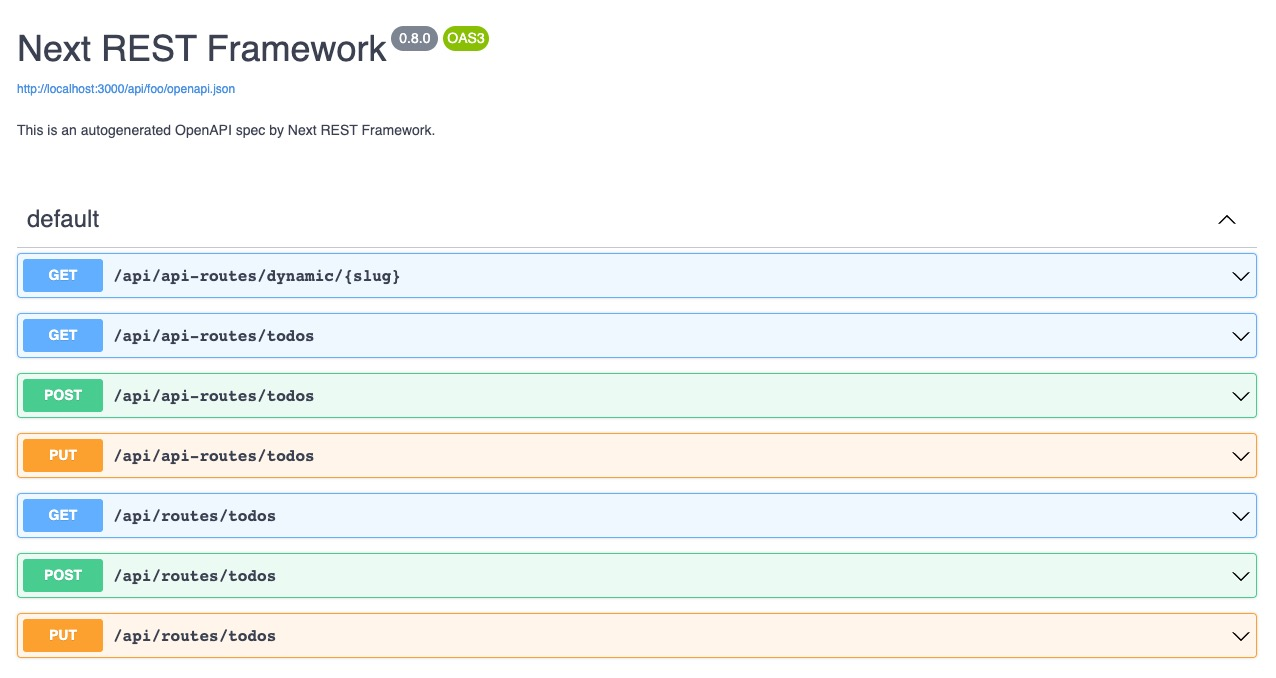
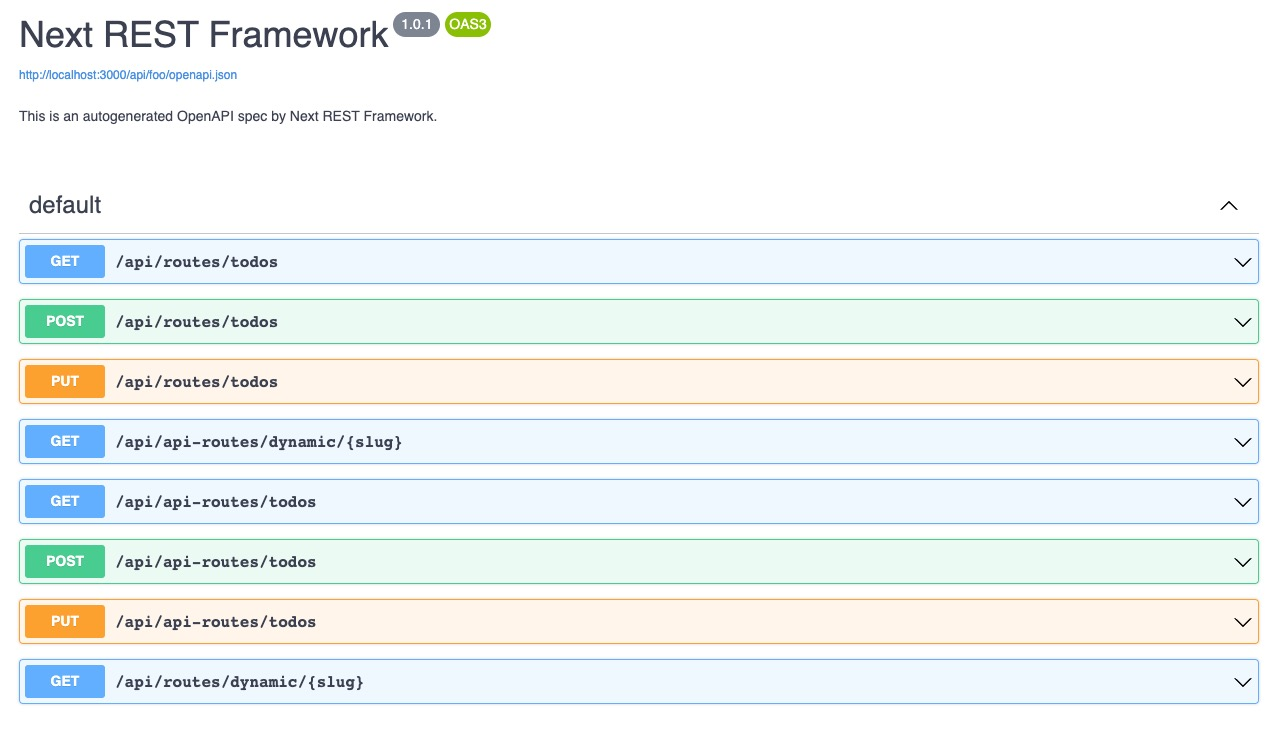
Prevent API route paths generation when `apiRoutesPath` is not defined (#54)
* Prevent API route paths generation when `apiRoutesPath` is not defined

This change prevents from making the file system calls when the config
option `apiRoutesPath` is not defined, like we already do for the app directory
routes with the `appDirPath` option.

* Update the SwaggerUI screenshot img

Changed region(s): [[0.0, 0.2478, 1.0, 0.9912], [0.0, 0.0, 0.3973, 0.2168]]

diff --git a/packages/next-rest-framework/src/utils/open-api.ts b/packages/next-rest-framework/src/utils/open-api.ts
@@ -202,19 +202,19 @@ const generatePaths = async ({
 
   const apiRoutesPath = 'apiRoutesPath' in config ? config.apiRoutesPath : '';
 
-  const apiRoutes = getNestedRoutes(
-    join(process.cwd(), apiRoutesPath ?? ''),
-    ''
-  )
-    .filter(filterApiRoutes)
-    .map((file) =>
-      `/api/${file}`
-        .replace('/index', '')
-        .replace(/\\/g, '/')
-        .replace('[', '{')
-        .replace(']', '}')
-        .replace('.ts', '')
-    );
+  const apiRoutes =
+    (apiRoutesPath &&
+      getNestedRoutes(join(process.cwd(), apiRoutesPath ?? ''), '')
+        .filter(filterApiRoutes)
+        .map((file) =>
+          `/api/${file}`
+            .replace('/index', '')
+            .replace(/\\/g, '/')
+            .replace('[', '{')
+            .replace(']', '}')
+            .replace('.ts', '')
+        )) ??
+    [];
 
   const routes = [..._routes, ...apiRoutes];
 
